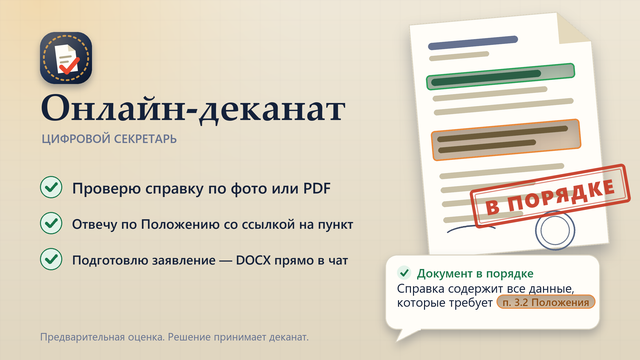
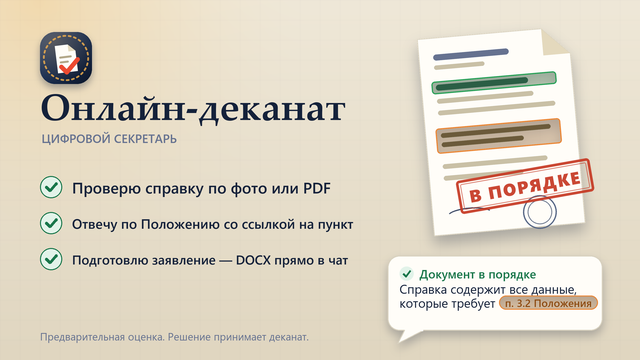
Приветственная картинка: правой части больше воздуха

Changed region(s): [[0.5938, 0.0306, 1.0, 0.9167], [0.625, 0.9167, 0.6562, 0.9472]]

diff --git a/scripts/make_bot_welcome.py b/scripts/make_bot_welcome.py
@@ -104,7 +104,7 @@ def document_card() -> Image.Image:
     bar(34, 40, 180, 14, INK3 + (255,))
     bar(34, 66, 120, 10, (0xC9, 0xC0, 0xA6))
     # строки «справки»; на двух — подсветка найденных полей
-    rows = [(146, 230), (174, 280), (302, 250), (330, 190), (358, 270), (390, 160)]
+    rows = [(146, 230), (174, 280), (302, 250), (330, 190)]
     for y, w in rows:
         bar(34, y, w, 11, (0xC9, 0xC0, 0xA6))
     # зелёная рамка: поле из карточки
@@ -198,13 +198,18 @@ def build() -> Image.Image:
 
     # правая часть: документ с подсветкой, штамп и ответ в чате
     card = document_card()
-    cx, cy = 1018, 268
-    paste_layer(img, _centered(card, cx, cy), offset=(0, 18), blur=30, alpha=80)
+    card = _scaled(card, 0.84)  # лист и всё справа — с воздухом по краям, без наложений друг на друга
+    cx, cy = 1002, 262
+    paste_layer(img, _centered(card, cx, cy), offset=(0, 16), blur=28, alpha=75)
     bubble = chat_bubble()
-    paste_layer(img, _centered(bubble, 985, 584), offset=(0, 10), blur=18, alpha=70)
-    stamp = stamp_layer("В ПОРЯДКЕ")
-    paste_layer(img, _centered(stamp, 1100, 392), with_shadow=False)
+    paste_layer(img, _centered(bubble, 990, 586), offset=(0, 10), blur=18, alpha=70)
+    stamp = _scaled(stamp_layer("В ПОРЯДКЕ"), 0.86)
+    paste_layer(img, _centered(stamp, 1050, 372), with_shadow=False)
     return img
+
+
+def _scaled(layer: Image.Image, k: float) -> Image.Image:
+    return layer.resize((int(layer.width * k), int(layer.height * k)), Image.LANCZOS)
 
 
 def _centered(layer: Image.Image, cx: float, cy: float) -> Image.Image:
